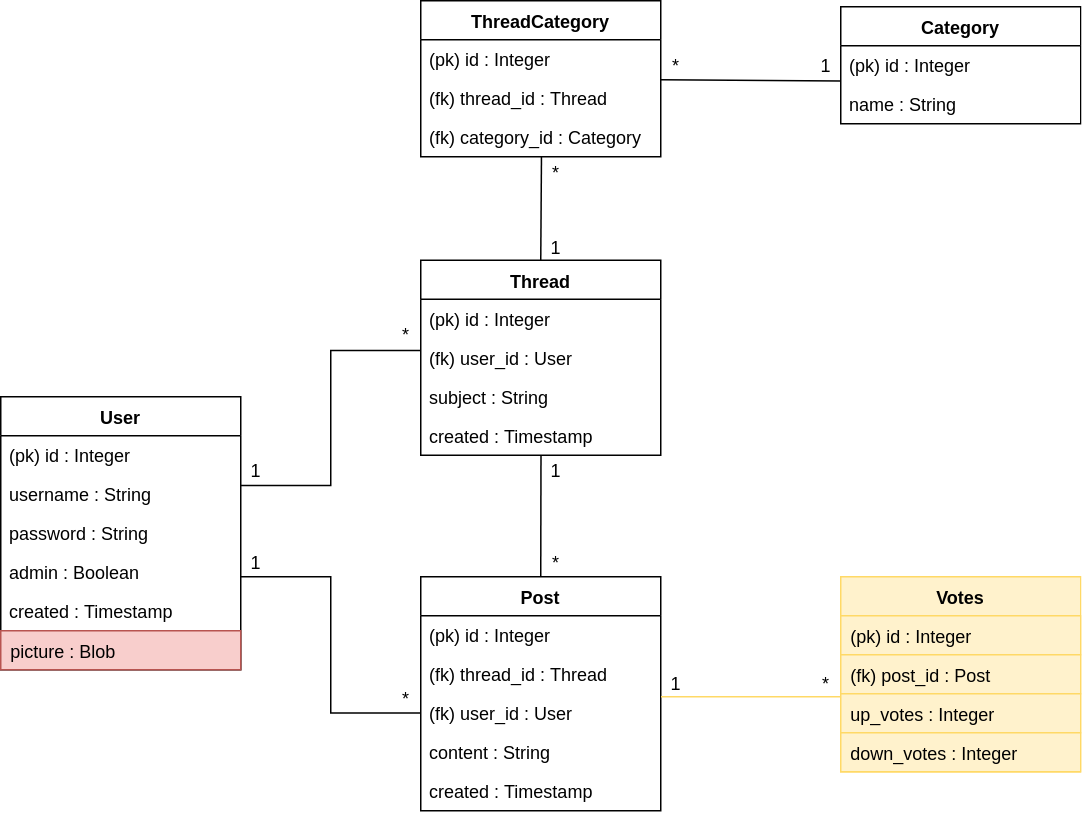
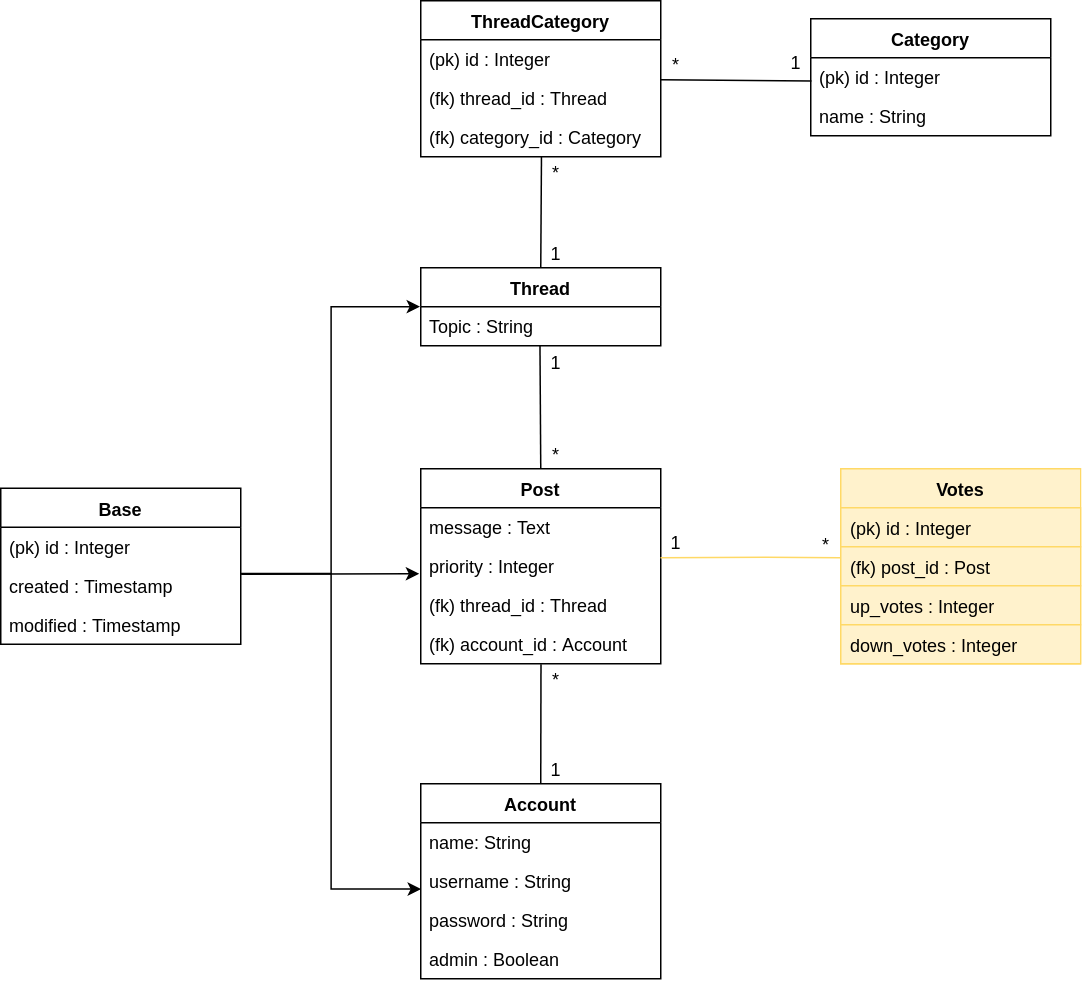
updated documentation

diff --git a/documentation/UserCases.md b/documentation/UserCases.md
@@ -3,14 +3,31 @@
 Sovelluksen käyttö ja toiminnallisuuksien toteutus tapahtuu "yläpalkissa" olevien nimettyjen linkkien avulla ja tutkittavalla sivulla aukeavien toiminnallisuuksien kautta. Alla on kuvattu reittit tällä hetkellä toteutettujen toiminnallisuuksien suorittamiseen. 
 
 # Authentication/Login (Kirjautuminen ja käyttäjä)
+
 * **Rekisteröidy:** yläpalkki "Rekisteröidy" -> Syötä nimi, username, 2 x salasana (Nimi pituus (2,50), Username pituus (2,20), Salasana pituus (8,50), Salasanojen pitää täsmätä, username ei saa olla jo olemassa) -> "Rekisteröidy" -> redirect (Kirjaudu)
 
 * **Kirjaudu:** yläpalkki "Kirjaudu" -> Syötä username, salasana (Virhe ilmoitus, jos käyttäjää + salasana yhdistelmää ei löydy tietokannasta) -> "Kirjaudu" -> redirect (Threads list) 
 
-* **Kirjaudu ulos:** yläpalkki Kirjaudu ulos -> redirect (Threads list) 
+* **Kirjaudu ulos:** yläpalkki Kirjaudu ulos -> redirect (Threads list)
+
+* **Omat tiedot:** yläpalkki Omat tiedot
+   * **Muuta Nimi:** Nimi -> Vaihda palkki -> yhtenevä rekisteröinnin kanssa
+   * **Muuta Käyttäjätunnus:** Käyttäjätunnus -> Vaihda palkki -> yhtenevä rekisteröinnin kanssa
+   * **Muuta Salasana:** Salasana -> Vaihda palkki -> yhtenevä rekisteröinnin kanssa
+
+* **HUOM! Poista käyttäjätili ei toiminassa toistaiseksi:** Järkevää toteuttaavaa vasta kun Thread ja Post toiminnallisuus täysin valmis
+
 
 # Threads (Viestiketjut)
-* **Uusi viestiketju:** yläpalkki "Aloita uusi keskustelu" -> Otsikko (min 2, max 100 merkkiä), -> "Luo viestiketju" -> redirect (Threads List)
-* **Listaa viestiketjut:** yläpalkki "Näytä keskustelut"
-  * **Poista viestiketju:** Palkki viestiketjun otsikon perässä
-  * **Muokkaa viestiketjua (otsikko)** Palkki viestiketjun otsikon perässä, Otsikko (min 2, max 100 merkkiä), näkymä vanhaan otsikkoon
+
+* **Uusi viestiketju:** yläpalkki "Aloita uusi keskustelu" -> Otsikko (min 2, max 100 merkkiä), Viesti (min 2, max 4000 merkkiä) -> "Luo viestiketju" -> redirect (Threads List)
+* **Näytä viestiketjut:** yläpalkki "Näytä keskustelut"
+  * **HUOM HUOM! Poista viestiketju:** Palkki viestiketjun otsikon perässä, !!! Poista ensin aloitus viesti ketjun sisältä !!!
+  * **Muokkaa viestiketjua (otsikko):** Palkki viestiketjun otsikon perässä, Otsikko (min 2, max 100 merkkiä), näkymä vanhaan otsikkoon
+
+* **Avaa viestiketju:** klikkaa viestiketjun nimeä
+
+
+# Posts (Viestit)
+
+* **Poista viestiketju:** avaa viestiketju, poista palkki viestin perässä -> redirect(viestiketju)
